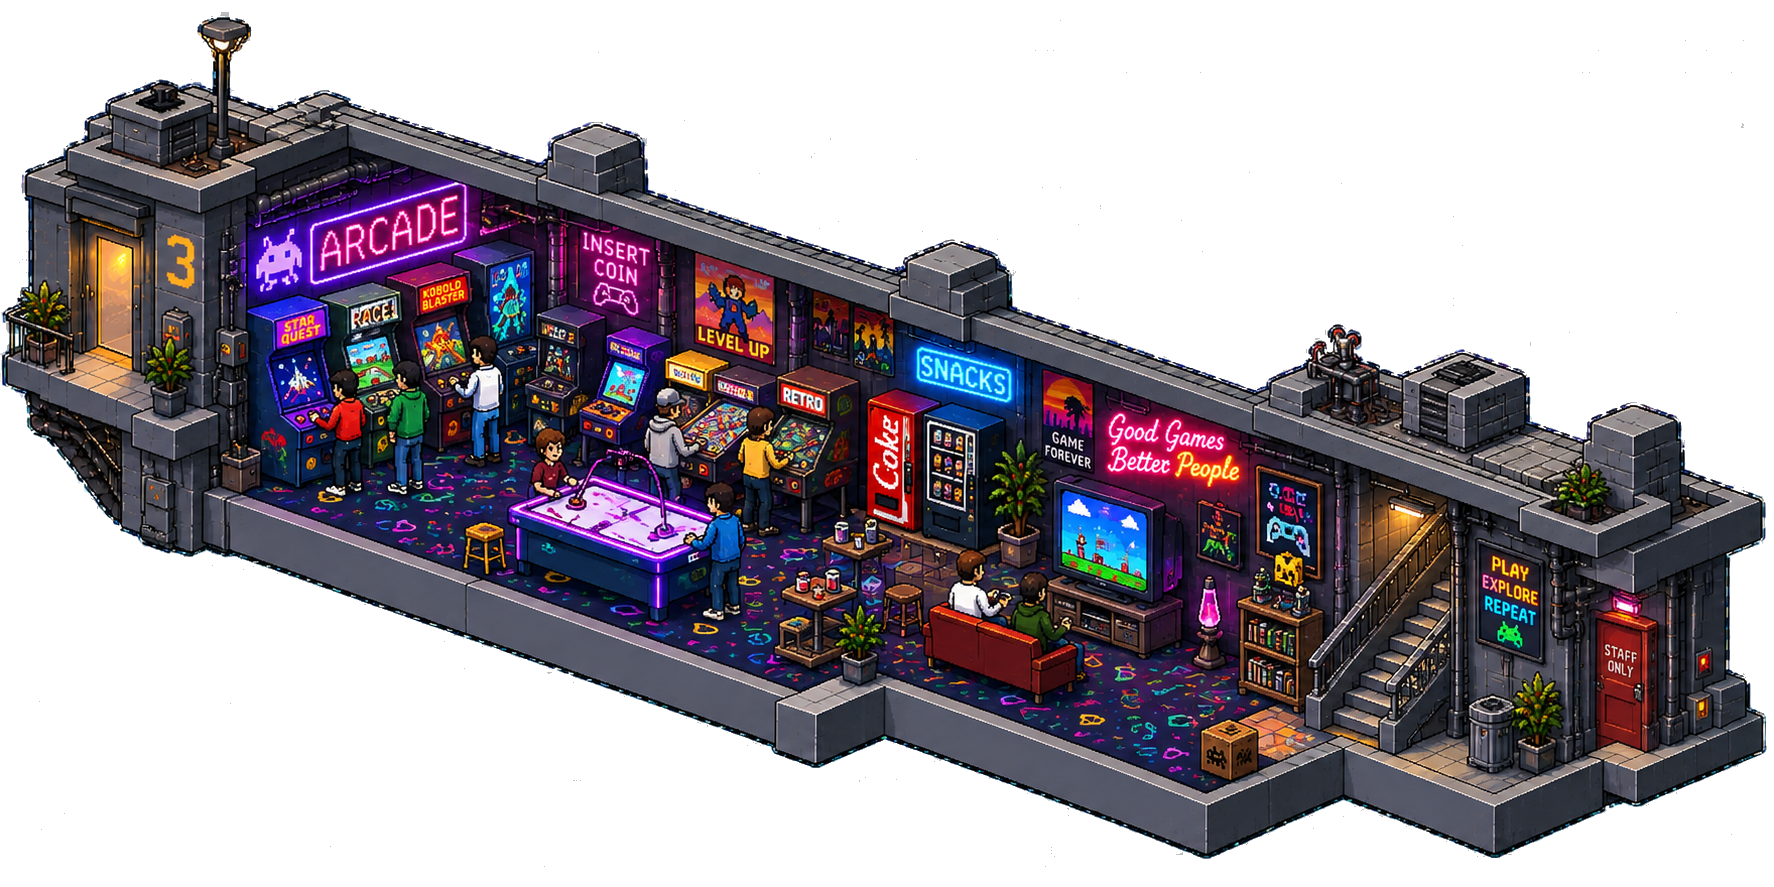
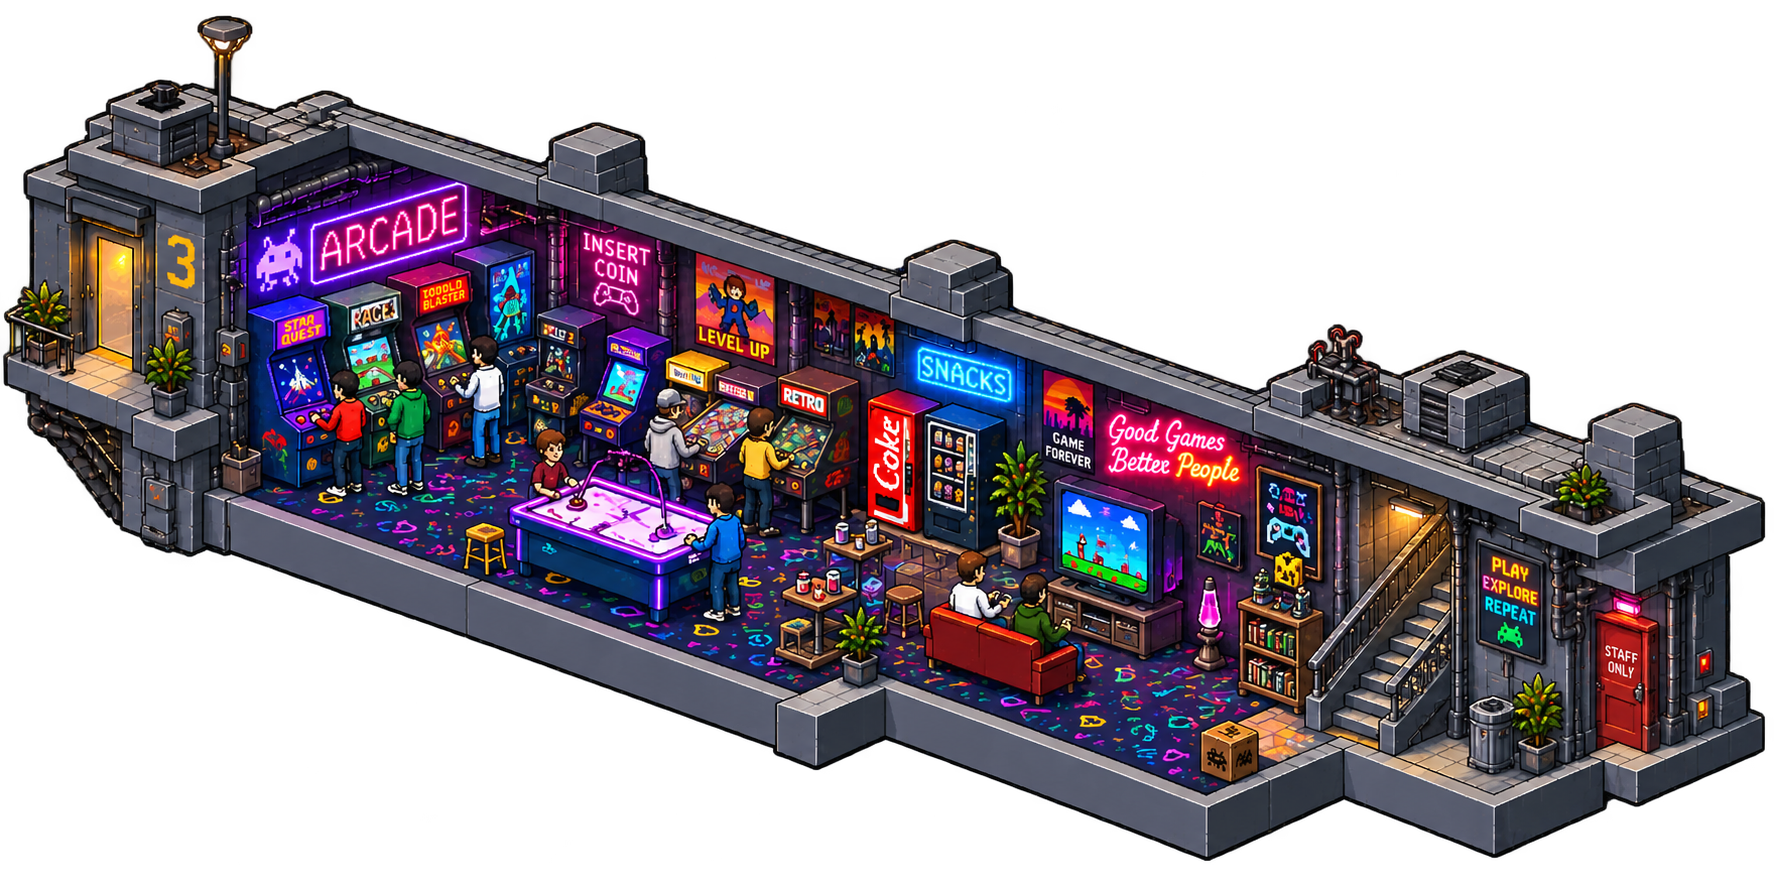
Replace the reference tile with a clean re-export
The old middle-floor.png was an early keying pass of mine: 1735 bright fringe
pixels along every edge, against zero on the other two tiles. It is the tile
every generated floor is edited from, so the damage propagated into
generations.

The replacement measures 1774x887, real alpha, 48.4% transparent, zero fringe.
The import hashes the file, so it replaces the stored reference on the next page
load -- and only the reference row, not the generated floors alongside it.

Claude-Session: https://claude.ai/code/session_01MaXVFccZj9sH8k3CmHqSfE

diff --git a/README.md b/README.md
@@ -108,9 +108,6 @@ that cannot lose the building. Issue #1 remains the overall spec.
 
 Known gaps, in order of how much they cost:
 
-- `public/middle-floor.png` carries white edge fringe from an early keying pass
-  and needs re-exporting with real alpha. It is the reference every generated
-  floor is edited from, so the damage propagates.
 - Generated tiles come back 2912x1440 with the building filling ~99.5% of the
   canvas; the static tiles are 1774x887 filling ~94-97%. Floors therefore sit a
   few percent large with a different vertical offset and do not line up
